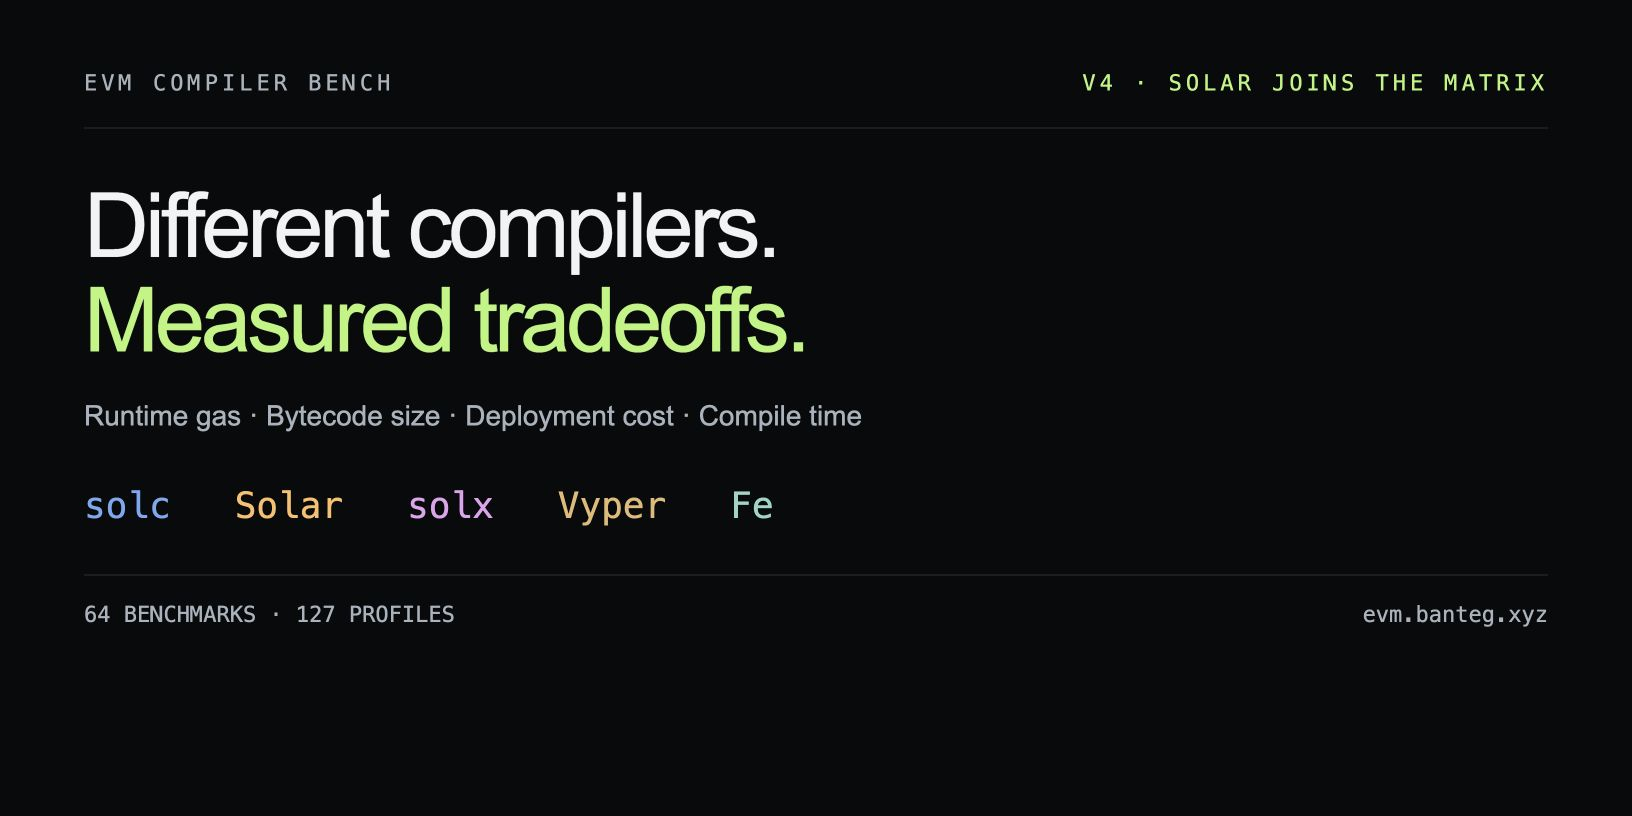
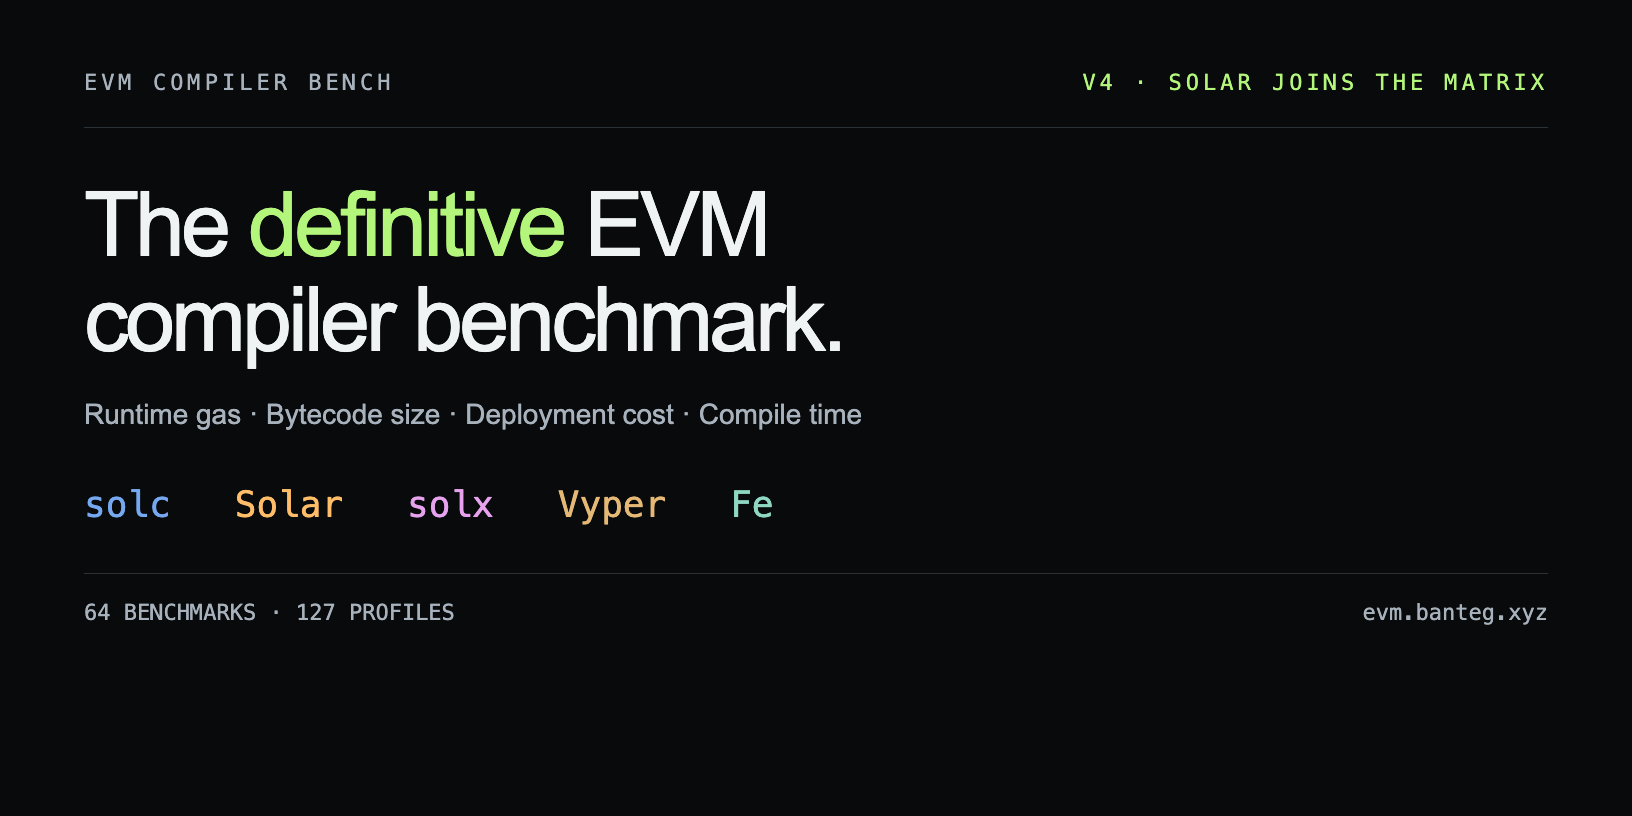
fix: restore original report headline (#15)

diff --git a/report-ui/og.html b/report-ui/og.html
@@ -10,7 +10,7 @@ p {font-size:28px; color:#a8b2bc; margin:0; line-height:1.6}.compilers {display:
 .bottom {border-top:1px solid #2a3137; padding-top:26px; font:22px monospace; color:#a8b2bc; display:flex; justify-content:space-between}
 </style>
 <div class="top"><span>EVM COMPILER BENCH</span><span class="badge">V4 · SOLAR JOINS THE MATRIX</span></div>
-<h1>Different compilers.<br><em>Measured tradeoffs.</em></h1>
+<h1>The <em>definitive</em> EVM<br>compiler benchmark.</h1>
 <p>Runtime gas · Bytecode size · Deployment cost · Compile time</p>
 <div class="compilers"><span class="solc">solc</span><span style="color:#ffbd69">Solar</span><span class="solx">solx</span><span class="vyper">Vyper</span><span class="fe">Fe</span></div>
 <div class="bottom"><span>64 BENCHMARKS · 127 PROFILES</span><span>evm.banteg.xyz</span></div>

diff --git a/report-ui/src/main.jsx b/report-ui/src/main.jsx
@@ -194,9 +194,9 @@ function Hero() {
       `Compiler bench · ${REPORT_VERSION} · ${gen.toISOString().slice(0,10)} · ${s.profiles} profiles × ${s.benchmarks} benchmarks`
     ),
     React.createElement('h1', { className: 'hero-title' },
-      'Different compilers.',
-      React.createElement('br'),
-      React.createElement('em', null, 'Measured tradeoffs.')
+      'The ',
+      React.createElement('em', null, 'definitive'),
+      ' EVM compiler benchmark.'
     ),
     React.createElement('p', { className: 'hero-lede' },
       'Compare solc, Solar, solx, Vyper, and Fe across runtime gas, bytecode size, deployment cost, and compilation time. ',
